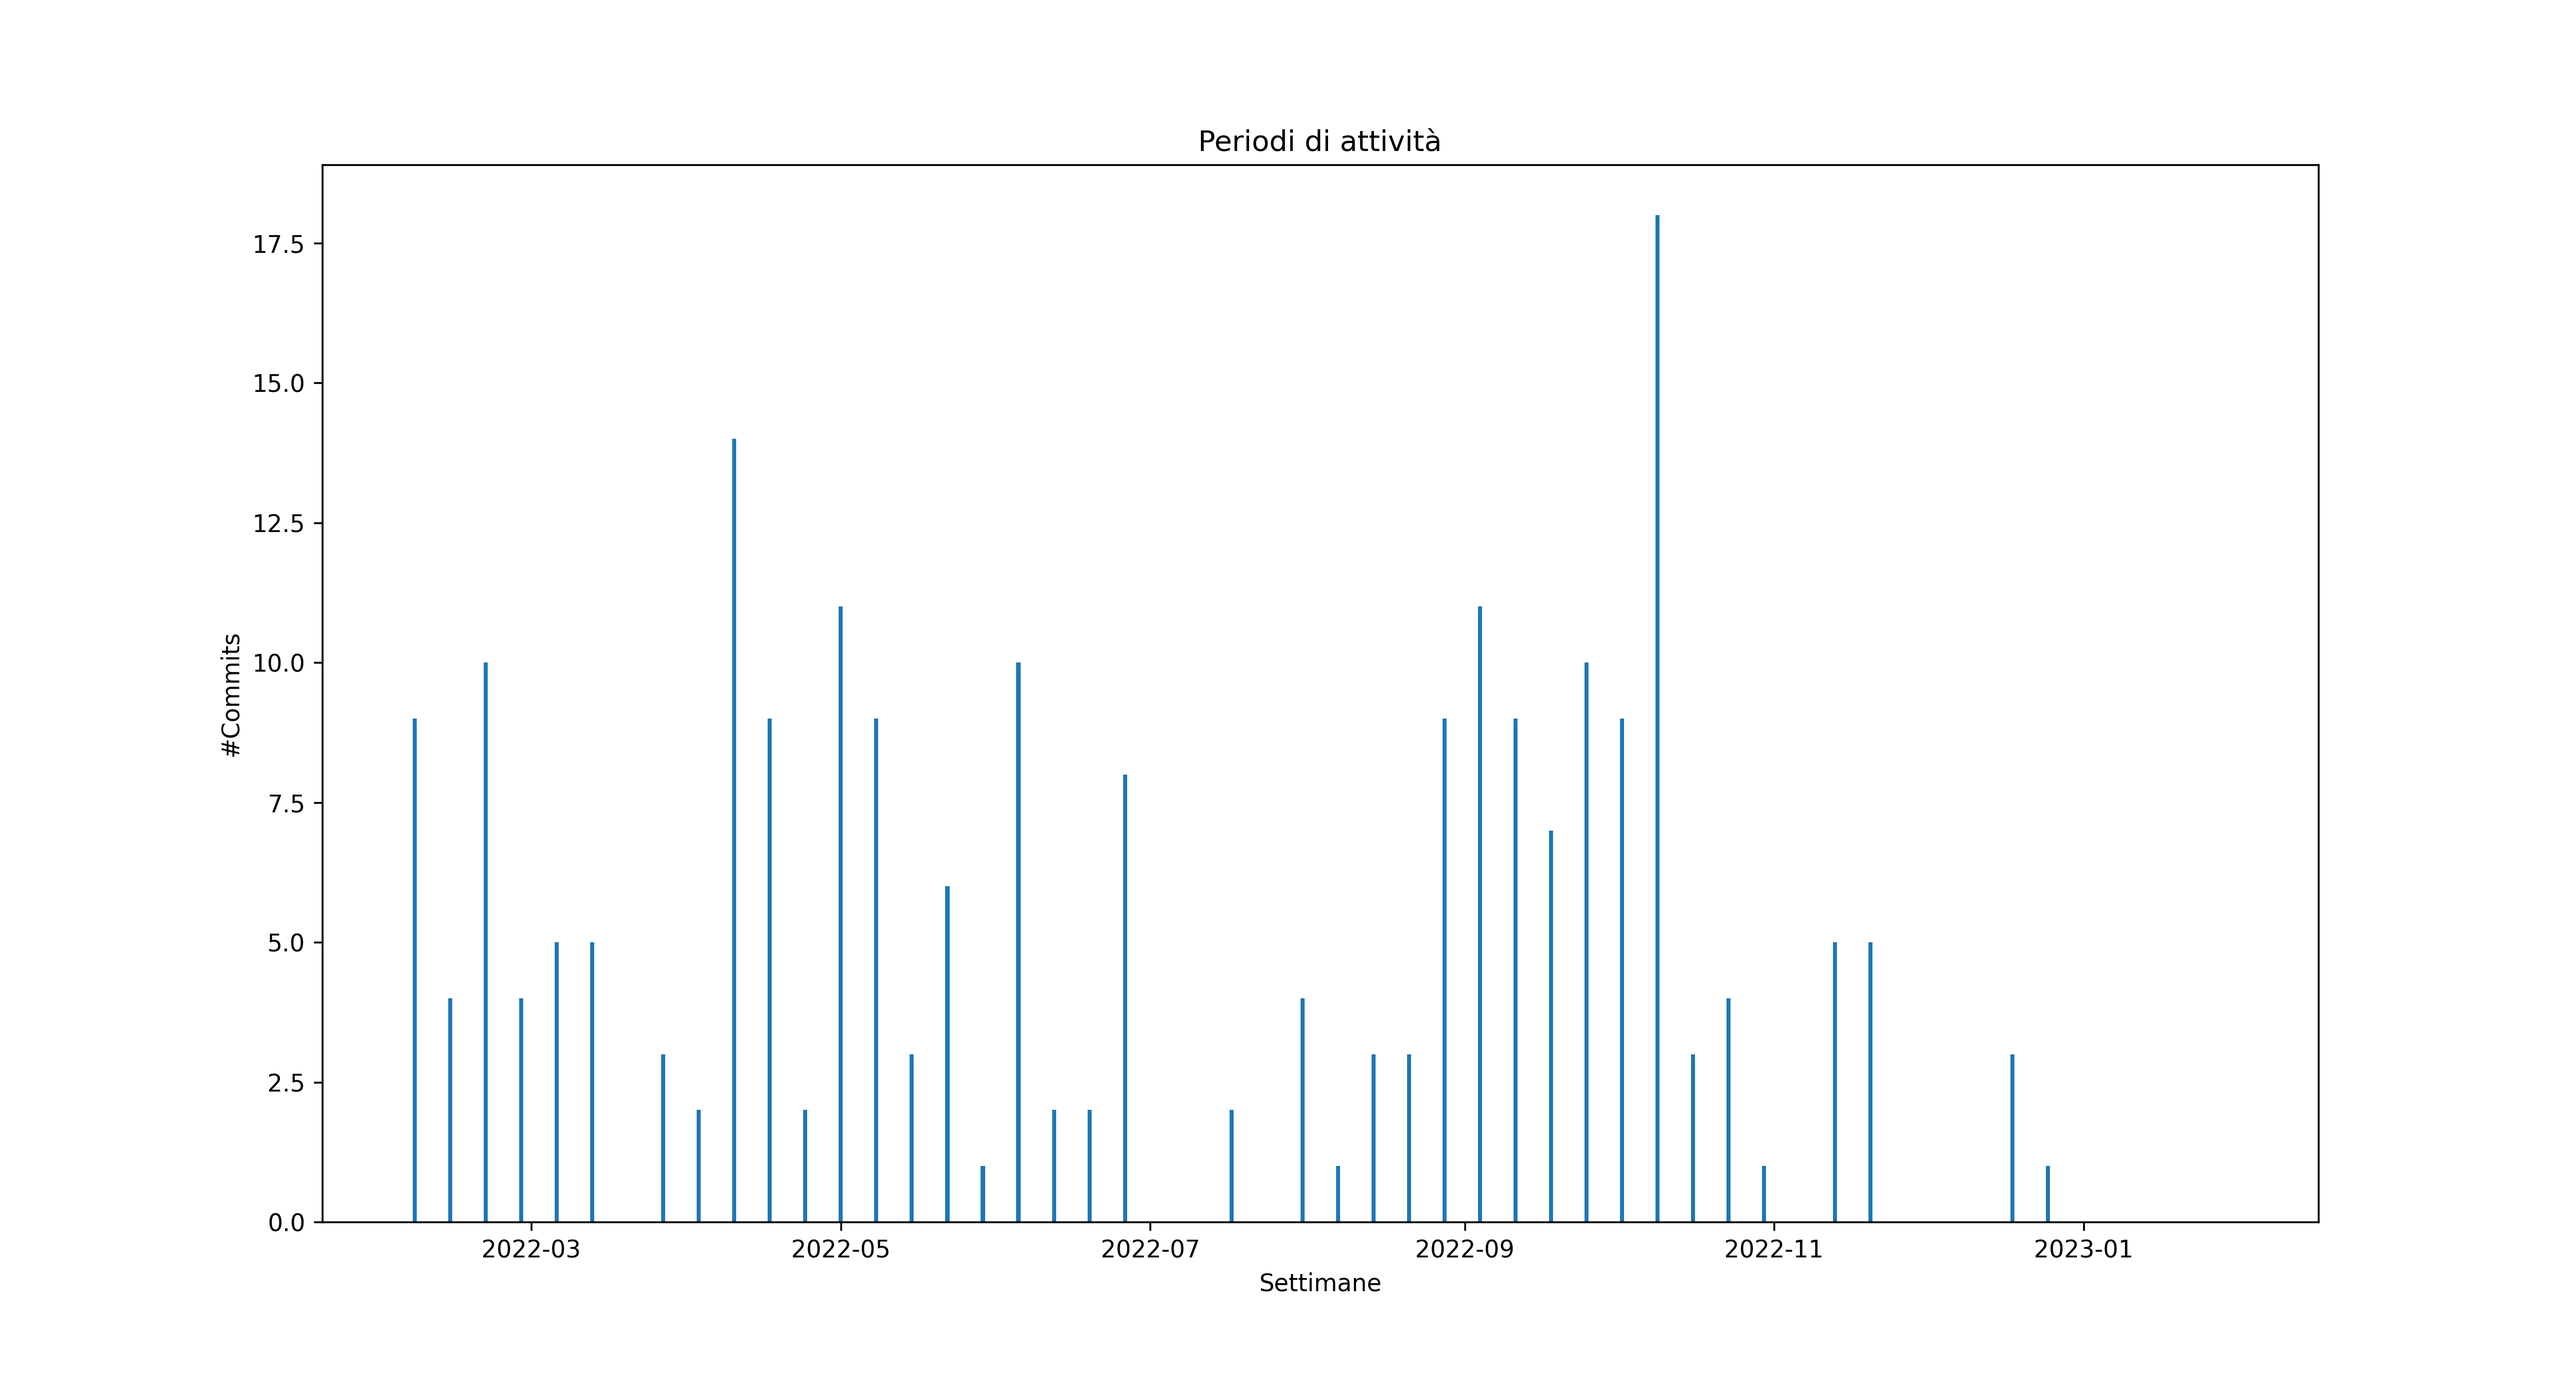
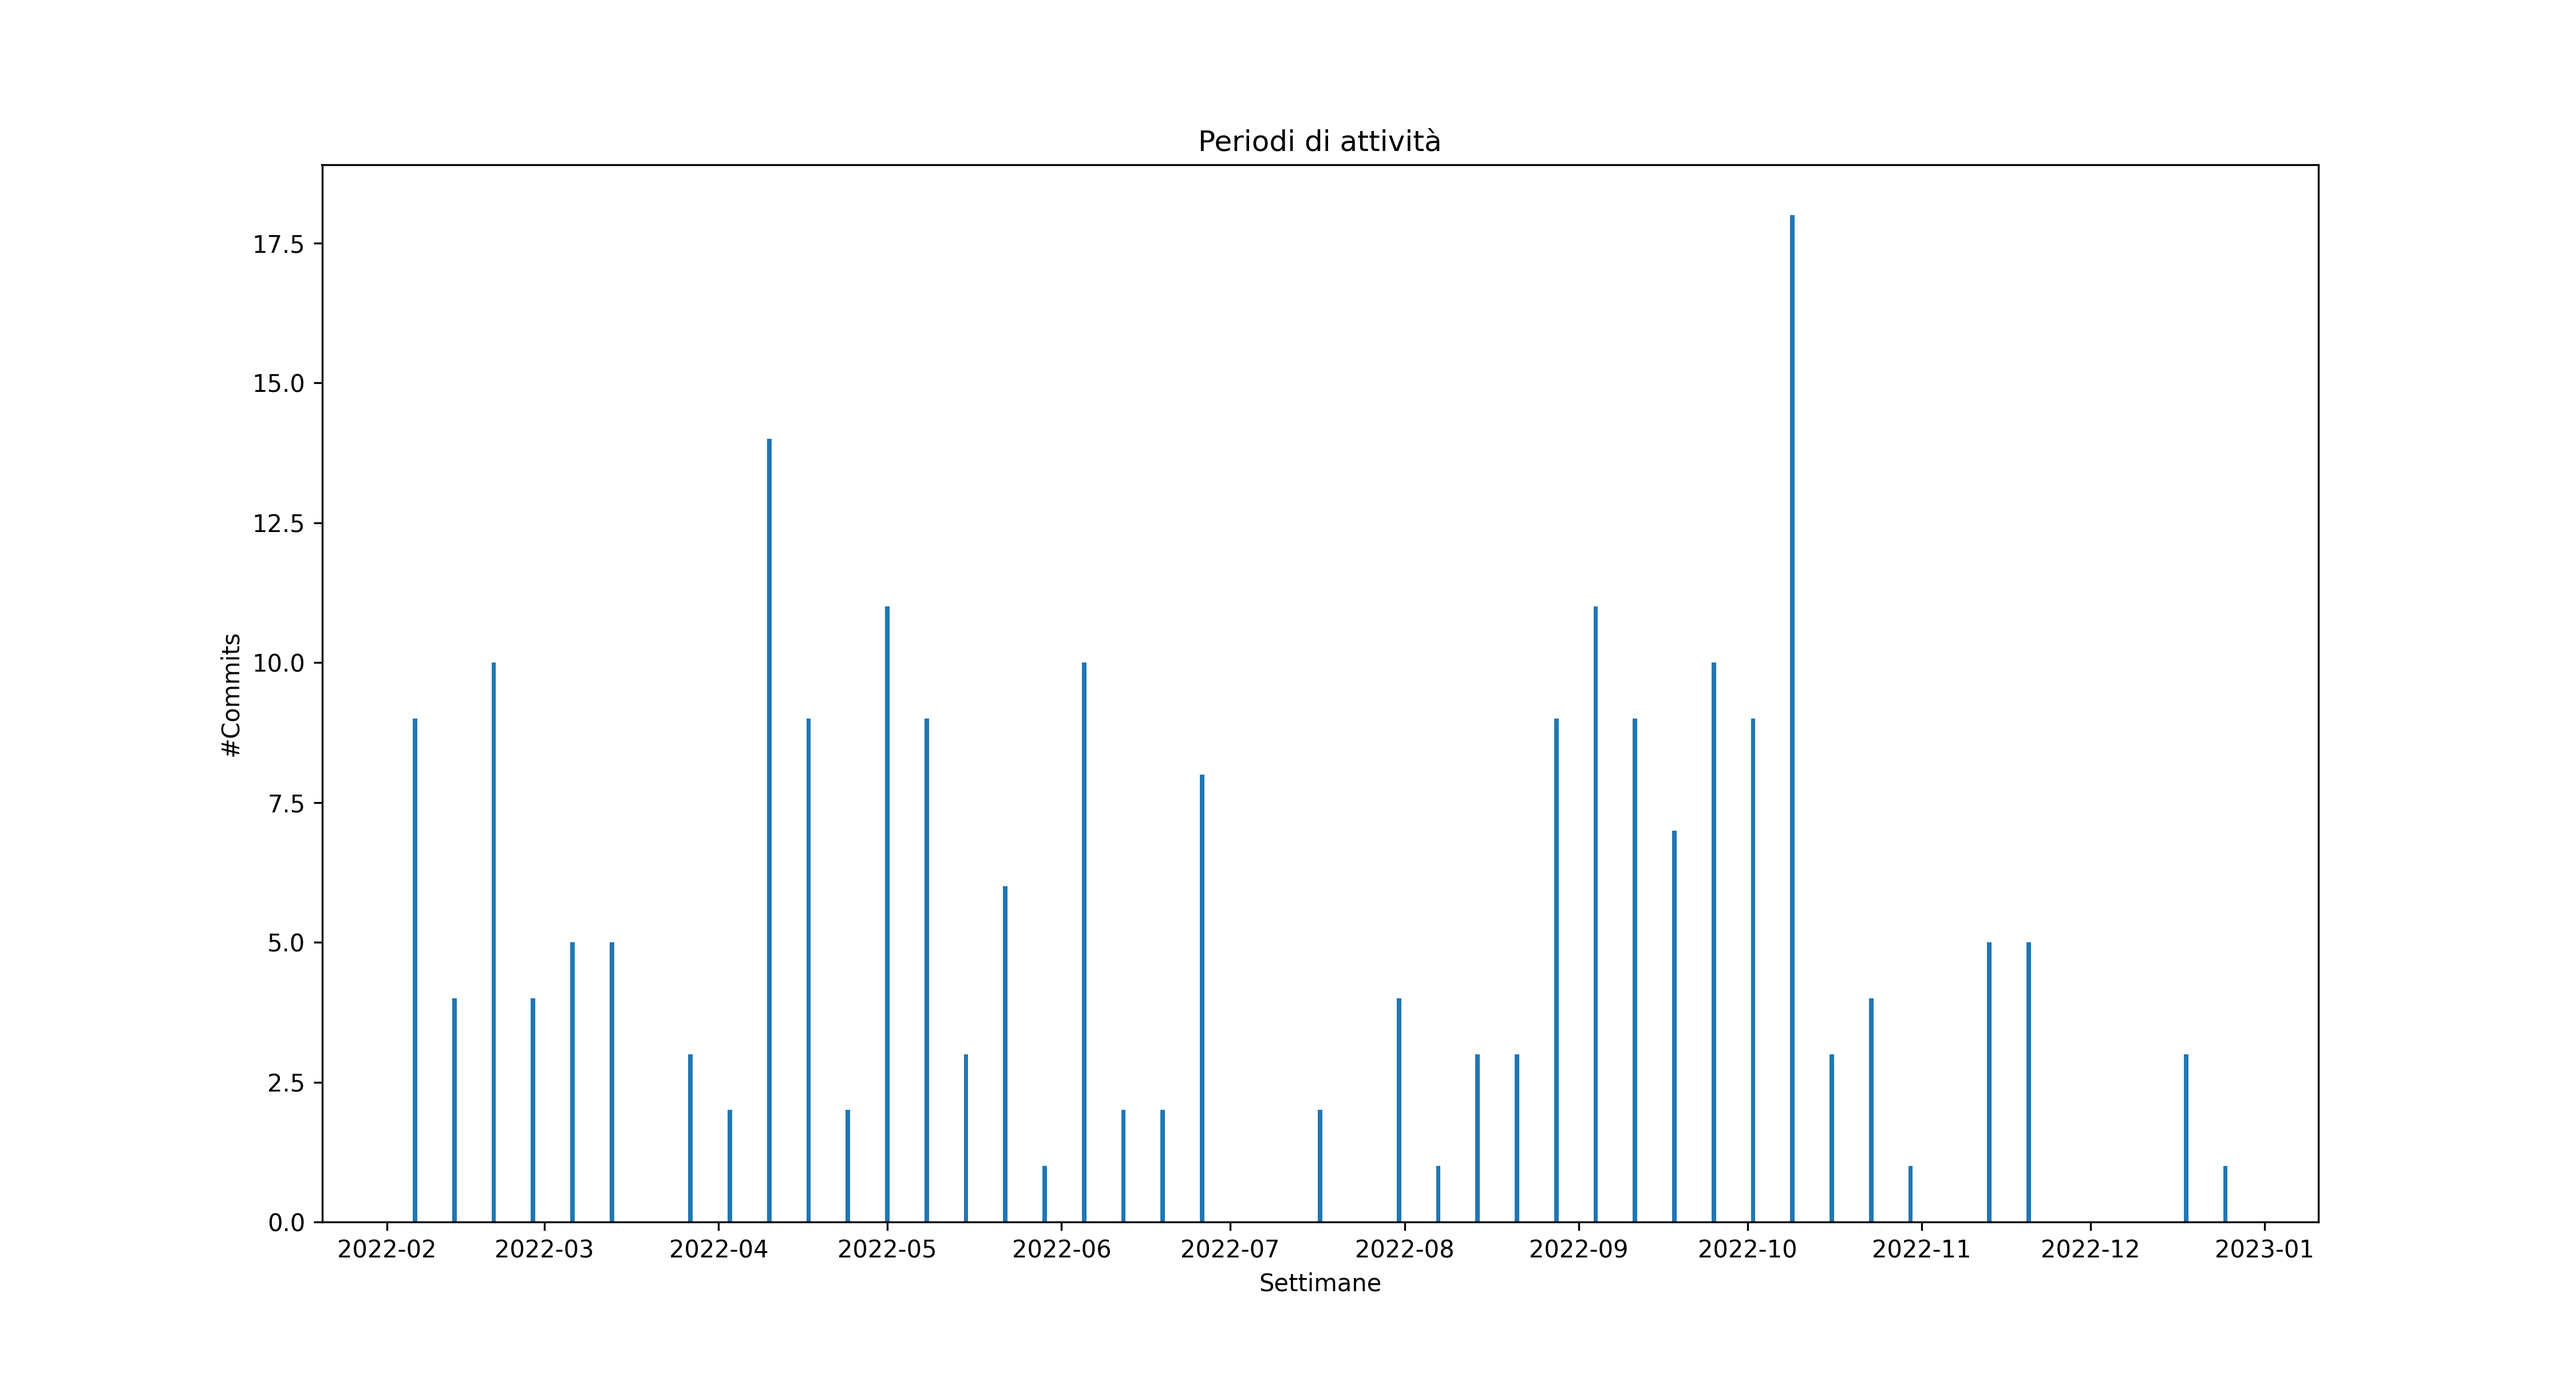
Correzione bug

diff --git a/main.py b/main.py
@@ -5,7 +5,7 @@ import numpy as np
 import Graphql
 from classFile import LanguageStatistics, UserCountry
 
-access_token = "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"
+access_token = "<YOUR TOKEN"
 g = Github(access_token)
 larsyx = g.get_user()
 graph = Graphql.graphQL(access_token)
@@ -84,8 +84,9 @@ def analysisRepository2(repo):
     totalComm = []
     for comm in commitActivity:
         print("\tsettimana del: " + str(comm.week.date()) + " #Commits: " + str(comm.total))
-        weekCommit.append(comm.week.date())
-        totalComm.append(comm.total)
+        if comm.total > 0:
+            weekCommit.append(comm.week.date())
+            totalComm.append(comm.total)
 
     weekCode = []
     codeAdded = []
@@ -99,6 +100,7 @@ def analysisRepository2(repo):
             codeAdded.append(r.additions)
             codeRemoved.append(r.deletions)
 
+    print(len(weekCode))
     fig, ax = plt.subplots()
     fig.set_size_inches(15, 8)
     ax.bar(weekCommit, totalComm)
